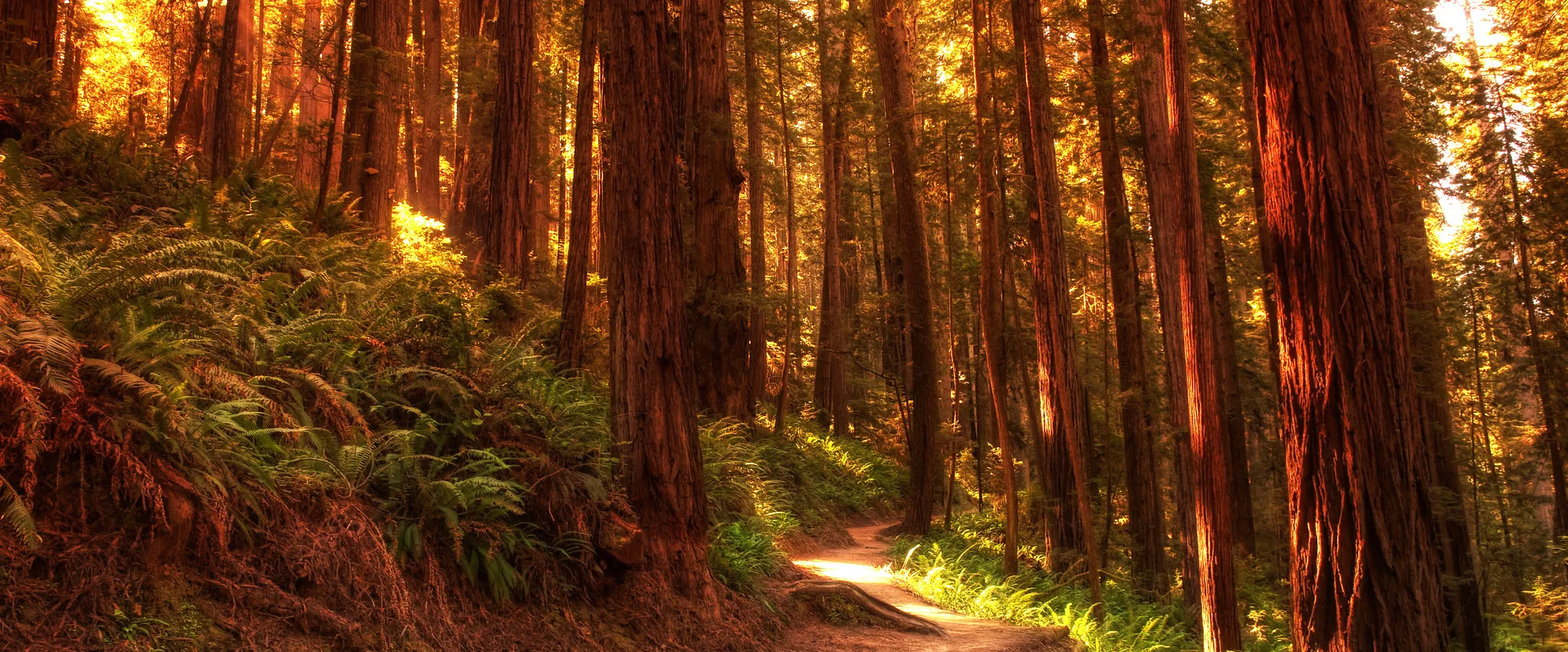
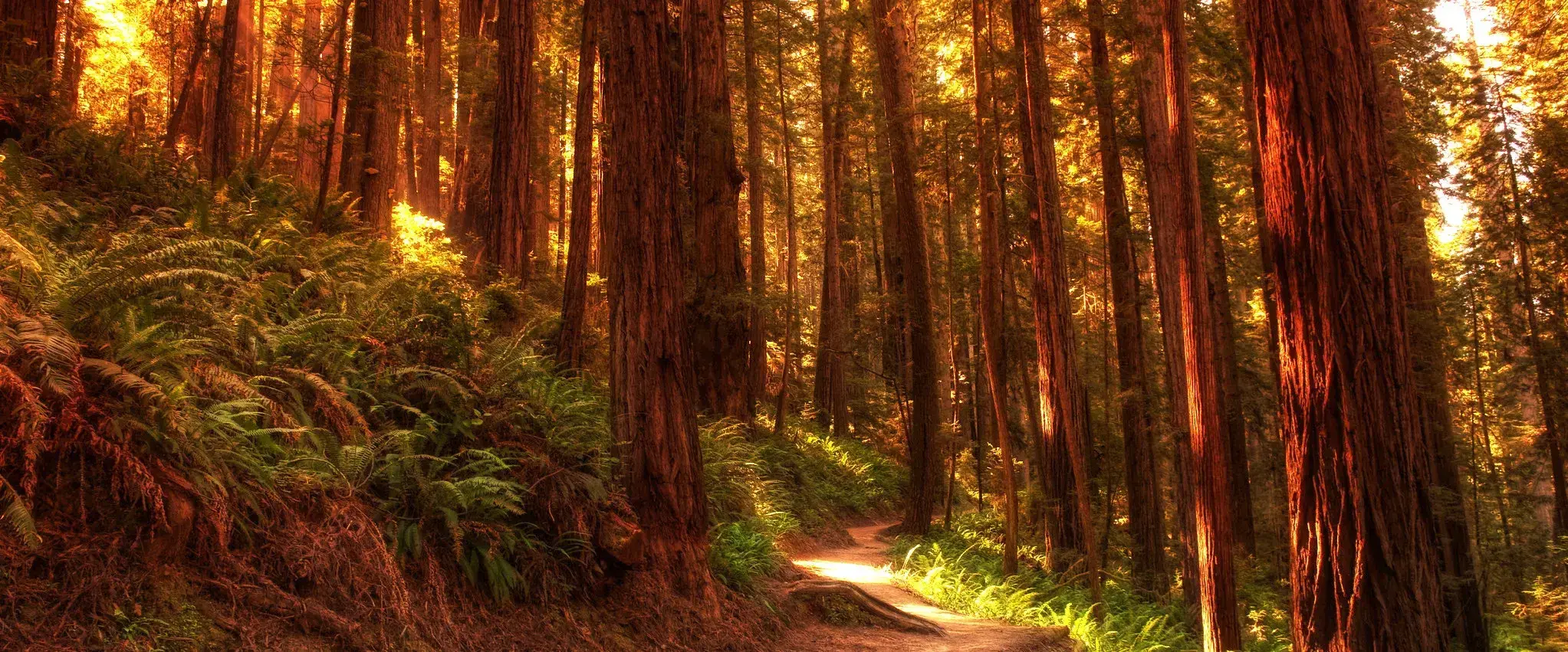
image optimizations

diff --git a/src/utils/consts.ts b/src/utils/consts.ts
@@ -1,18 +1,18 @@
-import p1 from "@/app/img/carousel/1.png";
-import p2 from "@/app/img/carousel/2.png";
-import p3 from "@/app/img/carousel/3.png";
-import p4 from "@/app/img/carousel/4.png";
-import p5 from "@/app/img/carousel/5.png";
-import p6 from "@/app/img/carousel/6.png";
-import p7 from "@/app/img/carousel/7.png";
-import p8 from "@/app/img/carousel/8.png";
+import p1 from "@/app/img/carousel/1.webp";
+import p2 from "@/app/img/carousel/2.webp";
+import p3 from "@/app/img/carousel/3.webp";
+import p4 from "@/app/img/carousel/4.webp";
+import p5 from "@/app/img/carousel/5.webp";
+import p6 from "@/app/img/carousel/6.webp";
+import p7 from "@/app/img/carousel/7.webp";
+import p8 from "@/app/img/carousel/8.webp";
 
-import craft_img_1 from "@/app/img/crafting/1.jpg";
-import craft_img_2 from "@/app/img/crafting/2.jpg";
-import craft_img_3 from "@/app/img/crafting/3.jpg";
-import craft_img_4 from "@/app/img/crafting/4.jpg";
-import craft_img_5 from "@/app/img/crafting/5.jpg";
-import craft_img_6 from "@/app/img/crafting/6.jpg";
+import craft_img_1 from "@/app/img/crafting/1.webp";
+import craft_img_2 from "@/app/img/crafting/2.webp";
+import craft_img_3 from "@/app/img/crafting/3.webp";
+import craft_img_4 from "@/app/img/crafting/4.webp";
+import craft_img_5 from "@/app/img/crafting/5.webp";
+import craft_img_6 from "@/app/img/crafting/6.webp";
 
 export const products = [
     {

diff --git a/src/app/components/RedwoodBeauty/RedwoodBeauty.tsx b/src/app/components/RedwoodBeauty/RedwoodBeauty.tsx
@@ -1,5 +1,5 @@
 import Image from "next/image";
-import tocco_table from "../../img/san_francisco.jpg";
+import tocco_table from "../../img/san_francisco.webp";
 import styles from "./RedwoodBeauty.module.css";
 
 export default function RedwoodBeauty() {

diff --git a/src/app/globals.css b/src/app/globals.css
@@ -71,7 +71,7 @@ footer a:hover {
 
 
 .cta {
-  background-image: url('./img/banner_bg.png');
+  background-image: url('./img/banner_bg.webp');
   background-size: cover;
   background-repeat: repeat;
 }
